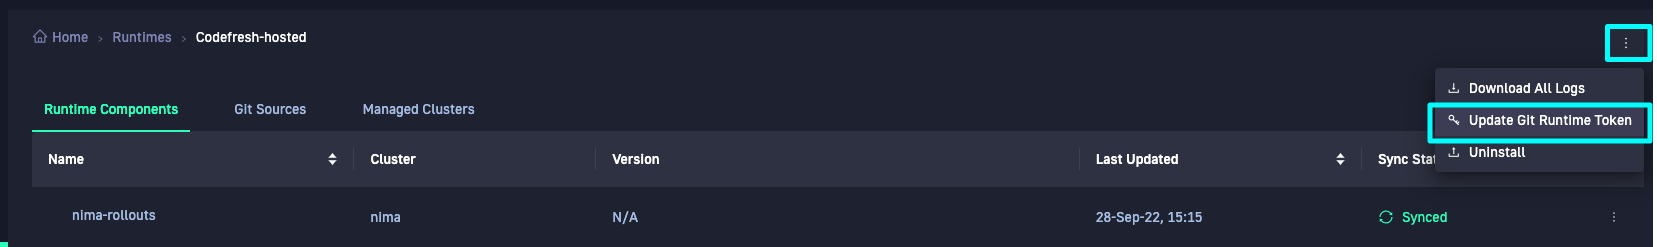
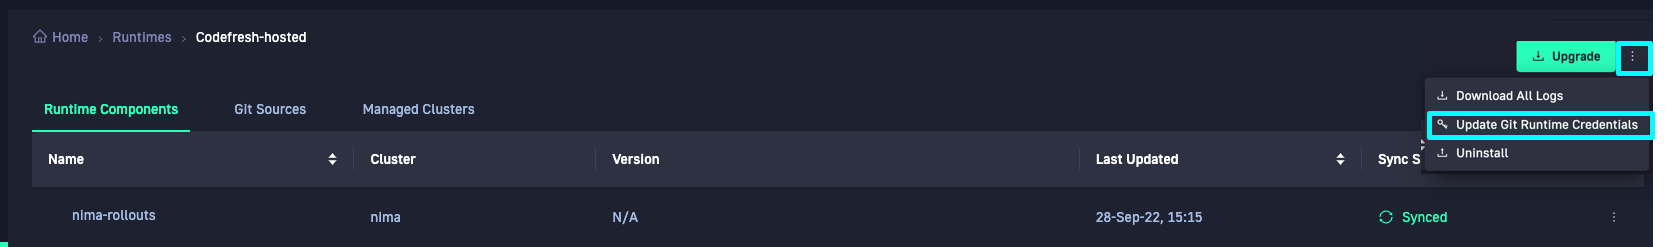
Add SSH support (#307)
* Add SSH support

* Update monitor-manage-runtimes.md

* Update create-application.md

diff --git a/_docs/runtime/monitor-manage-runtimes.md b/_docs/runtime/monitor-manage-runtimes.md
@@ -27,6 +27,8 @@ Select the view mode to view runtime components and information, and manage prov
 
 
 Manage provisioned runtimes: 
+* [Update Git tokens for runtimes](#update-git-tokens-for-runtimes)
+* [Configure SSH for runtimes](#configure-ssh-for-runtimes)
 * [Add managed clusters to hybrid or hosted runtimes]({{site.baseurl}}/docs/runtime/managed-cluster/)
 * [Add and manage Git Sources associated with hybrid or hosted runtimes]({{site.baseurl}}/docs/runtime/git-sources/)
 * [Reset shared configuration repository](#reset-shared-configuration-repository)
@@ -99,6 +101,114 @@ Here is a description of the information in the Topology view.
 |**Cluster**              | The local, and managed clusters if any, for the runtime. {::nomarkdown}<ul><li><img src="../../../images/icons/local-cluster.png" display=inline-block/> indicates the local cluster, always displayed as `in-cluster`. The in-cluster server URL is always set to `https://kubernetes.default.svc/`.</li><li><img src="../../../images/icons/managed-cluster.png" display=inline-block/> indicates a managed cluster.</li> <li> <img src="../../../images/icons/add-cluster.png" display=inline-block/> select to add a new managed cluster.</li></ul> {:/} To view cluster components, select the cluster. To add and work with managed clusters, see [Adding external clusters to runtimes]({{site.baseurl}}/docs/runtime/managed-cluster). |
 |**Health/Sync status** |The health and sync status of the runtime or cluster. {::nomarkdown}<ul><li><img src="../../../images/icons/error.png" display="inline-block"> indicates health or sync errors in the runtime, or a managed cluster if one was added to the runtime.</br> The runtime or cluster node is bordered in red and the name is colored red.</li> <li><img src="../../../images/icons/cf-sync-status.png" display=inline-block/> indicates that the runtime is being synced to the cluster on which it is provisioned.</li></ul> {:/} |
 |**Search and View options** | {::nomarkdown}<ul><li>Find a runtime or its clusters by typing part of the runtime/cluster name, and then navigate to the entries found. </li> <li>Topology view options: Resize to window, zoom in, zoom out, full screen view.</li></ul> {:/}|
+
+### Update Git tokens for runtimes
+
+Provisioned runtimes require valid Git tokens at all times to authenticate Git actions by you as a user.  
+>These tokens are specific to the user, and the same token can be used for multiple runtimes.
+
+There are two different situations when you need to update Git tokens:  
+* Update invalid, revoked, or expired tokens: Codefresh automatically flags runtimes with such tokens. It is mandatory to update the Git tokens to continue working with the platform. 
+* Update valid tokens: Optional. You may want to update Git tokens, even valid ones, by deleting the existing token and replacing it with a new token.
+
+The methods for updating any Git token are the same regardless of the reason for the update:  
+* OAuth2 authorization, if your admin has registered an OAuth Application for Codefresh
+* Git access token authentication, by generating a personal access token in your Git provider account with the correct scopes
+
+**Before you begin**  
+* To authenticate through a Git access token, make sure your token is valid and has [the required scopes]({{site.baseurl}}/docs/reference/git-tokens) 
+
+**How to**
+1. Do one of the following:
+  * If you see a notification in the Codefresh UI about invalid runtime tokens,  click **[Update Token]**.
+    The Runtimes page shows runtimes with invalid tokens prefixed by the key icon. Mouse over shows invalid token.
+  * To update an existing token, go to [Runtimes](https://g.codefresh.io/2.0/account-settings/runtimes){:target="\_blank"}.
+1. From the List view, select the runtime for which to update the Git token.
+1. From the context menu with the additional actions at the top-right, select **Update Git Runtime Credentials**.
+
+  {% include
+ image.html
+ lightbox="true"
+ file="/images/runtime/update-git-runtime-token.png"
+ url="/images/runtime/update-git-runtime-token.png"
+ alt="Update Git runtime credentials"
+ caption="Update Git runtime credentials"
+  max-width="60%"
+%}
+
+{:start="4"}
+1. Do one of the following: 
+  * If your admin has set up OAuth access, click **Authorize Access to Git Provider**. Go to _step 5_.
+  * Alternatively, authenticate with an access token from your Git provider. Go to _step 6_.
+
+{:start="5"}  
+1. For OAuth2 authorization:
+  > If the application is not registered, you get an error. Contact your admin for help.  
+  * Enter your credentials, and select **Sign In**.
+  * If required, as for example if two-factor authentication is configured, complete the verification. 
+
+    {% include 
+      image.html 
+      lightbox="true" 
+      file="/images/administration/user-settings/oauth-user-authentication.png" 
+      url="/images/administration/user-settings/oauth-user-authentication.png" 
+      alt="Authorizing access with OAuth2" 
+      caption="Authorizing access with OAuth2"
+      max-width="30%" 
+   %}
+
+{:start="6"} 
+1. For Git token authentication, expand **Advanced authorization options**, and then paste the generated token in the **Git runtime token** field.
+
+1. Click **Update Credentials**.
+
+
+### Configure SSH for runtimes
+By default, Git repositories use the HTTPS protocol. You can also use SSH to connect Git repositories by entering the SSH private key.
+
+>When SSH is configured for a runtime, when creating/editing Git-Source applications, you can select HTTPS OR SSH as the protocol to connect to the Git repository. See [Repository URL in Application Source definitions]({{site.baseurl}}/docs/deployment/create-application/#source).
+
+**SSH keys**  
+For more information on generating SSH private keys, see the official documentation:
+* [GitHub](https://help.github.com/en/github/authenticating-to-github/generating-a-new-ssh-key-and-adding-it-to-the-ssh-agent){:target="\_blank"}
+* [GitLab](https://docs.gitlab.com/ee/ssh/#generating-a-new-ssh-key-pair){:target="\_blank"}
+* [Bitbucket](https://confluence.atlassian.com/bitbucket/set-up-an-ssh-key-728138079.html){:target="\_blank"}
+* [Azure](https://docs.microsoft.com/en-us/azure/devops/repos/git/use-ssh-keys-to-authenticate?view=azure-devops&tabs=current-page){:target="\_blank"}
+
+**Before you begin**  
+Copy the SSH private key for your Git provider  
+
+
+**How to**  
+1. In the Codefresh UI, make sure you are in [Runtimes](https://g.codefresh.io/2.0/account-settings/runtimes){:target="\_blank"}.
+1. From the **List View**, select the runtime for which to configure SSH.
+1. From the context menu with the additional actions at the top-right, select **Update Git Runtime Credentials**. 
+
+  {% include
+ image.html
+ lightbox="true"
+ file="/images/runtime/update-git-runtime-token.png"
+ url="/images/runtime/update-git-runtime-token.png"
+ alt="Update Git runtime credentials"
+ caption="Update Git runtime credentials"
+  max-width="60%"
+%}
+
+{:start="4"}
+1. Expand **Connect Repo using SSH**, and then paste the raw SSH private key into the field.
+
+{% include
+ image.html
+ lightbox="true"
+ file="/images/runtime/configure-ssh-for-runtimes.png"
+ url="/images/runtime/configure-ssh-for-runtimes.png"
+ alt="Update Git runtime credentials"
+ caption="Update Git runtime credentials"
+  max-width="40%"
+%}
+
+{:start="5"}
+1. Click **Update Credentials**.
 
 ### Reset shared configuration repository
 Codefresh creates the [shared configuration repository]({{site.baseurl}}/docs/reference/shared-configuration) when you install the first hybrid or hosted GitOps runtime for your account, and uses it for all runtimes you add to the same account.
@@ -306,67 +416,6 @@ Pass the mandatory flags in the uninstall command:
 1. Select the Kube context from which to uninstall the runtime, and then confirm the uninstall.
 1. If you get errors, run the uninstall command again, with the `--force` flag.
 
-
-
-### Update Git tokens for runtimes
-
-Provisioned runtimes require valid Git tokens at all times to authenticate Git actions by you as a user.  
->These tokens are specific to the user, and the same token can be used for multiple runtimes.
-
-There are two different situations when you need to update Git tokens:  
-* Update invalid, revoked, or expired tokens: Codefresh automatically flags runtimes with such tokens. It is mandatory to update the Git tokens to continue working with the platform. 
-* Update valid tokens: Optional. You may want to update Git tokens, even valid ones, by deleting the existing token and replacing it with a new token.
-
-The methods for updating any Git token are the same regardless of the reason for the update:  
-* OAuth2 authorization, if your admin has registered an OAuth Application for Codefresh
-* Git access token authentication, by generating a personal access token in your Git provider account with the correct scopes
-
-**Before you begin**  
-* To authenticate through a Git access token, make sure your token is valid and has [the required scopes]({{site.baseurl}}/docs/reference/git-tokens) 
-
-**How to**
-1. Do one of the following:
-  * If you see a notification in the Codefresh UI about invalid runtime tokens,  click **[Update Token]**.
-    The Runtimes page shows runtimes with invalid tokens prefixed by the key icon. Mouse over shows invalid token.
-  * To update an existing token, go to [Runtimes](https://g.codefresh.io/2.0/account-settings/runtimes){:target="\_blank"}.
-1. Select the runtime for which to update the Git token.
-1. From the context menu with the additional actions at the top-right, select **Update Git Runtime token**.
-
-  {% include
- image.html
- lightbox="true"
- file="/images/runtime/update-git-runtime-token.png"
- url="/images/runtime/update-git-runtime-token.png"
- alt="Update Git runtime token option"
- caption="Update Git runtime token option"
-  max-width="40%"
-%}
-
-{:start="4"}
-1. Do one of the following: 
-  * If your admin has set up OAuth access, click **Authorize Access to Git Provider**. Go to _step 5_.
-  * Alternatively, authenticate with an access token from your Git provider. Go to _step 6_.
-
-{:start="5"}  
-1. For OAuth2 authorization:
-  > If the application is not registered, you get an error. Contact your admin for help.  
-  * Enter your credentials, and select **Sign In**.
-  * If required, as for example if two-factor authentication is configured, complete the verification. 
-
-    {% include 
-      image.html 
-      lightbox="true" 
-      file="/images/administration/user-settings/oauth-user-authentication.png" 
-      url="/images/administration/user-settings/oauth-user-authentication.png" 
-      alt="Authorizing access with OAuth2" 
-      caption="Authorizing access with OAuth2"
-      max-width="30%" 
-   %}
-
-{:start="6"} 
-1. For Git token authentication, expand **Advanced authorization options**, and then paste the generated token in the **Git runtime token** field.
-
-1. Click **Update Token**.
 
 
 

diff --git a/_docs/deployment/create-application.md b/_docs/deployment/create-application.md
@@ -50,8 +50,9 @@ General configuration settings define the source, destination, and sync policies
    %} 
 
 #### Source 
-The Git repository to be tracked for changes to the application's source code.  
-{::nomarkdown}<ul> <li><b>ArgoCD Project</b>: The project group to which the application belongs. A project is useful to enforce restrictions on permitted sources and targets for applications, and roles. If not defined, the application is automatically assigned to the <span style="font-family: var(--font-family-monospace); font-size: 87.5%; color: #ad6800; background-color: #fffbe6">default</span> project, which is created automatically by Argo CD and has no restrictions. </br>For more information, see Argo CD's documentation on <a href="https://argo-cd.readthedocs.io/en/stable/user-guide/projects/#projects" target="\_blank">Projects</a>.</li> <li><b>Repository URL</b>: The Git repo or the Helm package repo with the application source code, to be tracked for changes. If the Argo CD project is not the <span style="font-family: var(--font-family-monospace); font-size: 87.5%; color: #ad6800; background-color: #fffbe6">default</span> project, make sure that the repo has the correct access roles for your application.<ul><li><b>Revision and Path</b>: Applies to Git repositories. </li><li><b>Chart</b>: Applies to Helm repositories. The name of the Helm package with all the resource definitions for the application, and the version. </li></ul>For more information, see <a href="https://argo-cd.readthedocs.io/en/stable/user-guide/tracking_strategies/" target="\_blank">Tracking and Deployment Strategies</a>.</li></ul> {:/}   
+The Git repository to be tracked for changes to the application's source code.
+
+{::nomarkdown}<ul> <li><b>ArgoCD Project</b>: The project group to which the application belongs. A project is useful to enforce restrictions on permitted sources and targets for applications, and roles. If not defined, the application is automatically assigned to the <span style="font-family: var(--font-family-monospace); font-size: 87.5%; color: #ad6800; background-color: #fffbe6">default</span> project, which is created automatically by Argo CD and has no restrictions. </br>For more information, see Argo CD's documentation on <a href="https://argo-cd.readthedocs.io/en/stable/user-guide/projects/#projects" target="\_blank">Projects</a>.</li> <li><b>Repository URL</b>: The Git repo or the Helm package repo with the application source code, to be tracked for changes. If SSH is configured for the runtime, you can connect to the repo with either HTTPS or SSH. On selecting the repository, Codefresh automatically updates the URL format. See <a href="https://codefresh.io/csdp-docs/docs/runtime/monitor-manage-runtimes/#configure-ssh-for-runtimes">Configure SSH for runtimes</a>.<br>If the Argo CD project is not the <span style="font-family: var(--font-family-monospace); font-size: 87.5%; color: #ad6800; background-color: #fffbe6">default</span> project, make sure that the repo has the correct access roles for your application.<ul><li><b>Revision and Path</b>: Applies to Git repositories. </li><li><b>Chart</b>: Applies to Helm repositories. The name of the Helm package with all the resource definitions for the application, and the version. </li></ul>For more information, see <a href="https://argo-cd.readthedocs.io/en/stable/user-guide/tracking_strategies/" target="\_blank">Tracking and Deployment Strategies</a>.</li></ul> {:/}   
 
 {::nomarkdown}
 <br>
